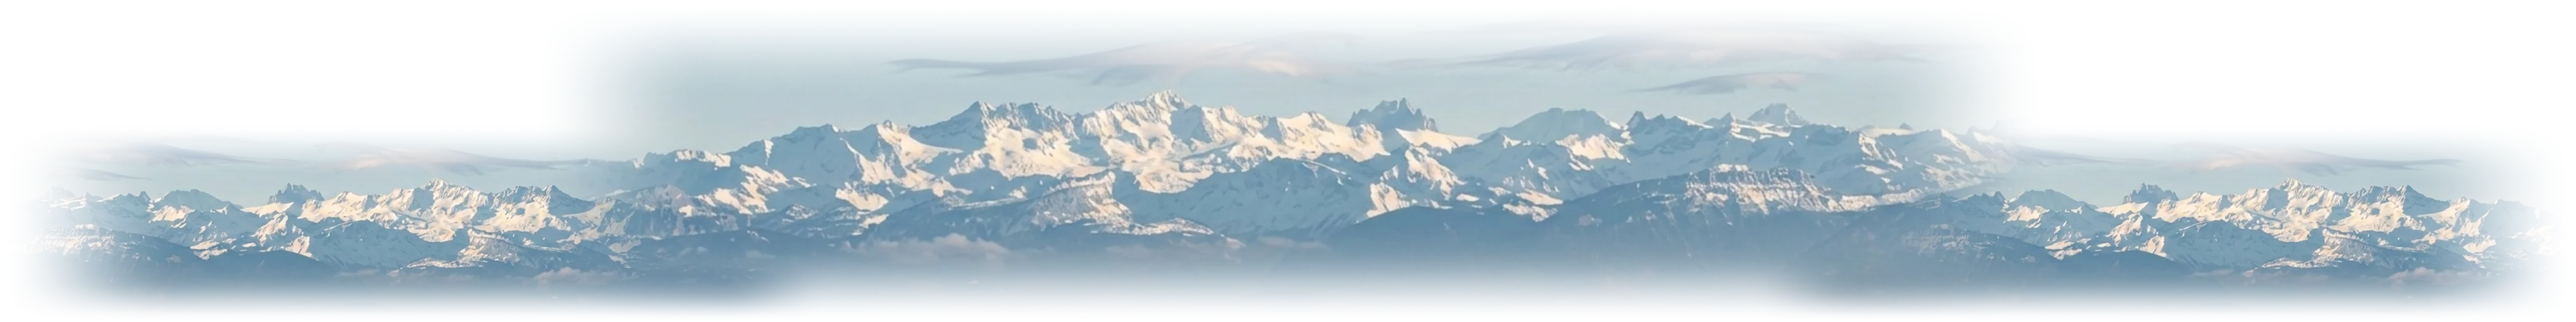
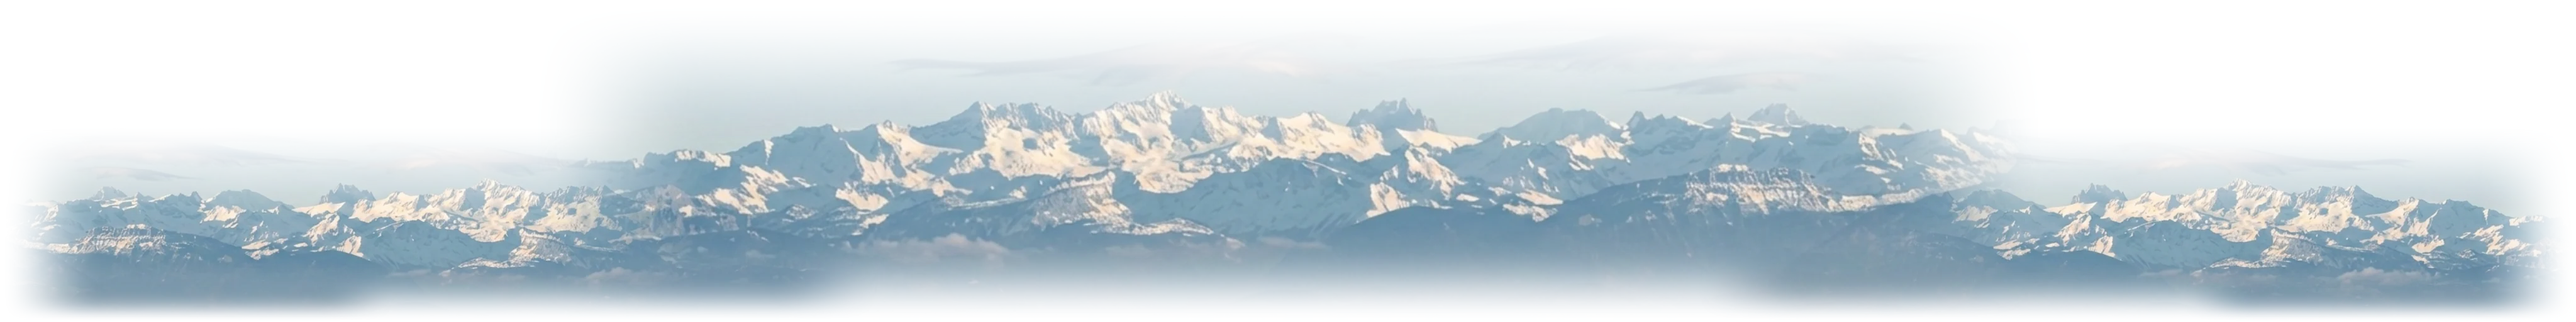
Balise de course vers le ciel, Alpes voilées et élargies, vraie prise à deux mains
- Grand Prix : colonne de lumière additive de 160 m au-dessus de l'anneau
  actif, visible par-dessus les toits — fini les anneaux introuvables.
  Éteinte à l'arrivée et à l'abandon.
- Alpes : rampe de transparence du ciel deux fois plus longue (sommets
  légèrement voilés, comme la vraie vue depuis Lyon — plus de marche
  visible contre le ciel du jeu), deux massifs supplémentaires très
  réduits aux extrémités et arc élargi à ~143° : la chaîne court le long
  de l'horizon au lieu de s'arrêter.
- Bras en mode arme : chaque bras ARRIVE EN BIAIS depuis son épaule
  (rotations franches) au lieu de flotter parallèle au canon ; le poing
  reste exactement sur son point de préhension grâce à la compensation
  vectorielle (offset du poing tourné par la rotation du bras).

Claude-Session: https://claude.ai/code/session_01TYBYLaAXzTKwt3YSWVSSGW

diff --git a/client/src/player/arms.js b/client/src/player/arms.js
@@ -71,8 +71,12 @@ function buildArm() {
 // GRIP_R vise le milieu du fusil (boîtier de culasse), pas la poignée
 // pistolet toute proche du corps — plus cohérent visuellement pour toutes
 // les armes (pas juste l'AK) qui n'ont pas toutes une poignée au même endroit.
-const GRIP_R = { pos: [0.02, -0.05, -0.22], rot: [0.15, -0.1, 0] };
-const GRIP_L = { pos: [-0.01, -0.03, -0.4], rot: [0.1, 0.15, 0] }; // garde-main
+// Rotations franches : chaque bras ARRIVE EN BIAIS depuis son épaule (droite
+// en bas à droite, gauche en bas à gauche) au lieu de flotter parallèle au
+// canon — c'est l'angle qui vend la prise à deux mains.
+const GRIP_R = { pos: [0.025, -0.06, -0.06], rot: [0.42, -0.38, 0.1] }; // poignée pistolet
+const GRIP_L = { pos: [-0.02, -0.02, -0.38], rot: [0.3, 0.55, -0.12] }; // garde-main
+const _fist = new THREE.Vector3();
 
 export function createArms(camera) {
   const right = buildArm();
@@ -111,13 +115,14 @@ export function createArms(camera) {
         weaponHolder.add(right, left);
         attachedTo = weaponHolder;
       }
-      // On positionne l'ORIGINE du groupe bras (pas le poing) : décalée en
-      // arrière de HAND_LOCAL_Z pour que ce soit bien le poing qui tombe sur
-      // le point de préhension, et pas le milieu de l'avant-bras.
-      right.position.set(GRIP_R.pos[0], GRIP_R.pos[1], GRIP_R.pos[2] - HAND_LOCAL_Z);
-      right.rotation.set(...GRIP_R.rot);
-      left.position.set(GRIP_L.pos[0], GRIP_L.pos[1], GRIP_L.pos[2] - HAND_LOCAL_Z);
-      left.rotation.set(...GRIP_L.rot);
+      // On positionne l'ORIGINE du groupe bras pour que le POING (bout du
+      // bras, à HAND_LOCAL_Z le long de son axe TOURNÉ) tombe pile sur le
+      // point de préhension — la rotation du bras est donc libre.
+      for (const [arm, grip] of [[right, GRIP_R], [left, GRIP_L]]) {
+        arm.rotation.set(...grip.rot);
+        _fist.set(0, 0, HAND_LOCAL_Z).applyEuler(arm.rotation);
+        arm.position.set(grip.pos[0] - _fist.x, grip.pos[1] - _fist.y, grip.pos[2] - _fist.z);
+      }
       return;
     }
 

diff --git a/client/src/world/race.js b/client/src/world/race.js
@@ -81,6 +81,19 @@ export function createRace(ctx, { setBanner, notify, onFinish, audio }) {
   ctx.scene.add(gate);
   ctx.pois?.push({ id: 'grand-prix', nom: 'Grand Prix de Lyon', emoji: '🏁', x: startX, z: startZ });
 
+  // Colonne de lumière vers le ciel au-dessus de l'anneau actif : visible
+  // de loin par-dessus les toits — fini les anneaux introuvables.
+  const beam = new THREE.Mesh(
+    new THREE.CylinderGeometry(0.9, 1.6, 160, 8, 1, true),
+    new THREE.MeshBasicMaterial({
+      color: 0xffb050, transparent: true, opacity: 0.32,
+      blending: THREE.AdditiveBlending, depthWrite: false, side: THREE.DoubleSide,
+    })
+  );
+  beam.visible = false;
+  beam.userData.noShadow = true;
+  ctx.scene.add(beam);
+
   let racing = false;
   let cp = 0;
   let t0 = 0;
@@ -104,6 +117,7 @@ export function createRace(ctx, { setBanner, notify, onFinish, audio }) {
   function abort(msg) {
     racing = false;
     rings.forEach((r) => { r.visible = false; });
+    beam.visible = false;
     setBanner(null);
     if (msg) notify(msg);
   }
@@ -113,6 +127,11 @@ export function createRace(ctx, { setBanner, notify, onFinish, audio }) {
       r.visible = i === cp || i === cp + 1;
       r.material = i === cp ? matActive : matNext;
     });
+    const ring = rings[cp];
+    if (ring) {
+      beam.position.set(ring.position.x, ring.position.y + 80, ring.position.z);
+      beam.visible = true;
+    }
   }
 
   const fmt = (ms) => `${Math.floor(ms / 60000)}:${String(Math.floor((ms % 60000) / 1000)).padStart(2, '0')}.${String(Math.floor((ms % 1000) / 100))}`;
@@ -135,6 +154,7 @@ export function createRace(ctx, { setBanner, notify, onFinish, audio }) {
       if (cp >= rings.length) {
         racing = false;
         rings.forEach((r) => { r.visible = false; });
+        beam.visible = false;
         setBanner(null);
         const ms = Math.round(elapsed);
         const record = best == null || ms < best;

diff --git a/client/src/world/cityReal.js b/client/src/world/cityReal.js
@@ -1020,7 +1020,7 @@ function buildAlps(ctx, bound, rand) {
   // de la couronne de collines mais dans le champ de la caméra (far = 3×bound)
   const R = bound * 2.1;
   const HGT = bound * 0.34;
-  const arc = 1.9;
+  const arc = 2.5; // élargi : la chaîne court sur ~143° d'horizon
   const geo = new THREE.CylinderGeometry(R, R, HGT, 32, 1, true, Math.PI / 2 - arc / 2, arc);
   const mesh = new THREE.Mesh(geo, mat);
   mesh.position.y = HGT / 2 - 6;
